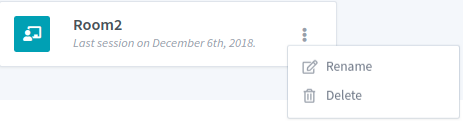
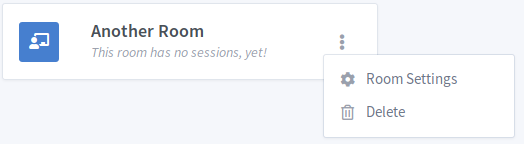
Updated docs

diff --git a/_posts/2018-06-22-greenlight-v2.md b/_posts/2018-06-22-greenlight-v2.md
@@ -17,7 +17,7 @@ BigBlueButton is an open source web conferencing system for online learning. The
 
 Greenlight 2.0 is a ruby on rails application that provides a a simple front-end interface to your BigBlueButton server. GreenLight lets users:
 
-  * Sign up/Login with Twitter, Google, or through the application itself
+  * Sign up/Login with Twitter, Google, Office365 or through the application itself
   * Manage their account settings and user preferences.
   * Create and manage their own personal rooms ([BigBlueButton](https://github.com/bigbluebutton/bigbluebutton) sessions).
   * Invite others to join a session using a simple URL.
@@ -35,7 +35,7 @@ Greenlight is a feature rich application that aims to address all your BigBlueBu
 
 As BigBlueButton and Greenlight are open-source projects, we encourage other developers to contribute. If you want to implement a new feature and submit a pull request, you are more than welcome to do so! For information on contributing to BigBlueButton projects, see [Contributing to BigBlueButton](http://docs.bigbluebutton.org/support/faq.html#contributing-to-bigbluebutton).
 
-## Accounts and Settings
+## Accounts and Profile
 
 ### Sign up / Login
 
@@ -50,13 +50,13 @@ Greenlight has full support for managing user accounts. It currently supports th
 
 All of these authentication providers are configurable and can be turned on/off individually. Turning off In-application authentication will disable user sign up. This allows you to preconfigure accounts for specific users who you want to have access to your server.
 
-Once you are logged in, you'll see your account appear in the top right corner of the screen. Clicking on this displays a drop-down that allows you to traverse Greenlight.
+Once you are logged in, you'll see your account appear in the top right corner of the screen. Clicking on the navigation items along side it allows you to traverse Greenlight.
 
 ![Greenlight Nav](/images/greenlight/nav.png)
 
-### Settings
+### Profile
 
-Greenlight also allows users to update their account information at any time, including changing their password, profile image, and updating their custom design settings for Greenlight.
+Greenlight also allows users to update their account information at any time, including changing their password, profile image, and language for Greenlight.
 
 ![Greenlight Settings](/images/greenlight/settings.png)
 
@@ -78,7 +78,7 @@ If the room is running, they'll be instantly join in. However, if the room is no
 
 ### Creating New Rooms
 
-When you sign up for Greenlight, the application creates your home room which is named "`FIRST_NAME`'s Room". You are free to create as many new rooms as you would like for different purposes. To create a new room, you simply click the "Create Room" button beside your profile in the navigation bar. You will have the option to automatically start the room when you create it.
+When you sign up for Greenlight, the application creates your home room which is named "Home Room". You are free to create as many new rooms as you would like for different purposes. To create a new room, you simply click the "Create a Room" block from your list of rooms. You will have the option to automatically start the room when you create it.
 
 ![Greenlight Create Room](/images/greenlight/create_room.png)
 
@@ -104,8 +104,9 @@ Afterwards, you can change the name by clicking anywhere or pressing the enter k
 
 **Using the Room block**
 
-If you look at a Room block, you will see 3 ellipsis which you can click to view a renaming option. You can click **Rename** to enable editing mode on the room block.
-Afterwards, clicking anywhere or pressing enter will save the changes.
+If you look at a Room block, you will see 3 ellipsis which you can click to view the options for this room. You can click **Room Settings** to display a modal that will allow you to edit any of the Room's features.
+
+Afterwards, clicking **Update Room** will save the changes.
 
 ![Greenlight Room Block Edit Dropdown](/images/greenlight/room_block_edit_dropdown.png)
 
@@ -163,6 +164,88 @@ There is also a **live search** that may return any part of the recording name:
 **Searching and sorting** can be used in conjunction:
 
 ![Greenlight Recording Filter and Search](/images/greenlight/recording_filter_search.png)
+
+## Administrator Panel
+
+### Creating an Administrator Account
+
+To create an Administrator account with the default values, run the following commands:
+
+```
+cd ~/greenlight
+bundle exec rake admin:create
+```
+
+If you would like to configure the name, email, or password of the Administrator account, replace the previous command with this: 
+
+```
+cd ~/greenlight
+bundle exec rake admin:create["name","email","password"]
+```
+
+**Note:** All of the above arguments are optional and if you don’t specify an argument it will be replaced with a default value.
+
+Once the command has finished it will print the account’s email and password.
+
+![Greenlight Administrator Account Create](/images/greenlight/admin_account_create.png)
+
+### Accessing the Administrator Panel
+
+Once you are logged in as an Administrator, you will notice a new item in the Account Dropdown titled **Organization**.
+
+![Greenlight Administrator Access](/images/greenlight/admin_access.png)
+
+### Managing Users
+
+Through the Manage Users tab, Administrators are able to view and search for all user accounts that have been created. 
+
+The search box can be used to filter based on Name, Username and Authenticator.
+
+Administrators are also able to edit each account by clicking on the vertical ellipsis.
+
+![Greenlight Administrator Manage Users](/images/greenlight/admin_manage_users.png)
+
+**Promoting Accounts**
+
+To promote an account from a User to an Administrator, select Promote to Admin from the Account Dropdown.
+
+**Demoting Accounts**
+
+To demote an account from an Administrator to a User, select Demote to User from the Account Dropdown.
+
+**Deleting Accounts**
+
+To delete an account, select Delete from the Account Dropdown. 
+
+While this removes the account from Greenlight the user will still be able to sign up to Greenlight using the same email in the future.
+
+**Banning Accounts**
+
+To ban an account, select Ban User from the account dropdown.
+
+This will remove the account from Greenlight and will also prevent the user from signing up using the same email to Greenlight in the future.
+
+**Editing Accounts**
+
+To edit an account, select Edit for the specified user. This will open the edit user view.
+
+From the edit user view, Administrators are able to edit the name, email, default language, and profile picture for the given account.
+
+### Site Branding
+
+Administrators are able to customize Greenlight through the Site Settings Tab.
+
+![Greenlight Administrator Manage Users](/images/greenlight/admin_site_settings.png)
+
+**Change the Branding Image**
+
+To change Greenlight’s Branding Image which is displayed in the top left corner, replace the default image with a URL of your image and click Change Image.
+
+**Change the Primary Colour**
+
+To change Greenlight’s primary colour open the colour palette and select a new primary colour.
+
+The primary colour is the colour that Greenlight uses as a basis for the styling. This includes buttons, links, icons, etc.
 
 
 # Installing on a BigBlueButton Server
@@ -499,11 +582,7 @@ If you are **not** deploying Greenlight on a BigBlueButton server and want the a
 
 ## Setting a Custom Branding Image
 
-Greenlight provides you with the ability to set the branding image that you see on the left side of the header. By default this is set to the BigBlueButton logo. You can change this by setting the `BRANDING_IMAGE` option in the `.env` file to a public URL for a png or JPEG image.
-
-~~~
-BRANDING_IMAGE=https://www.example.com/example.png
-~~~
+See [these instructions](#site-branding). 
 
 ## Adding Terms and Conditions
 
